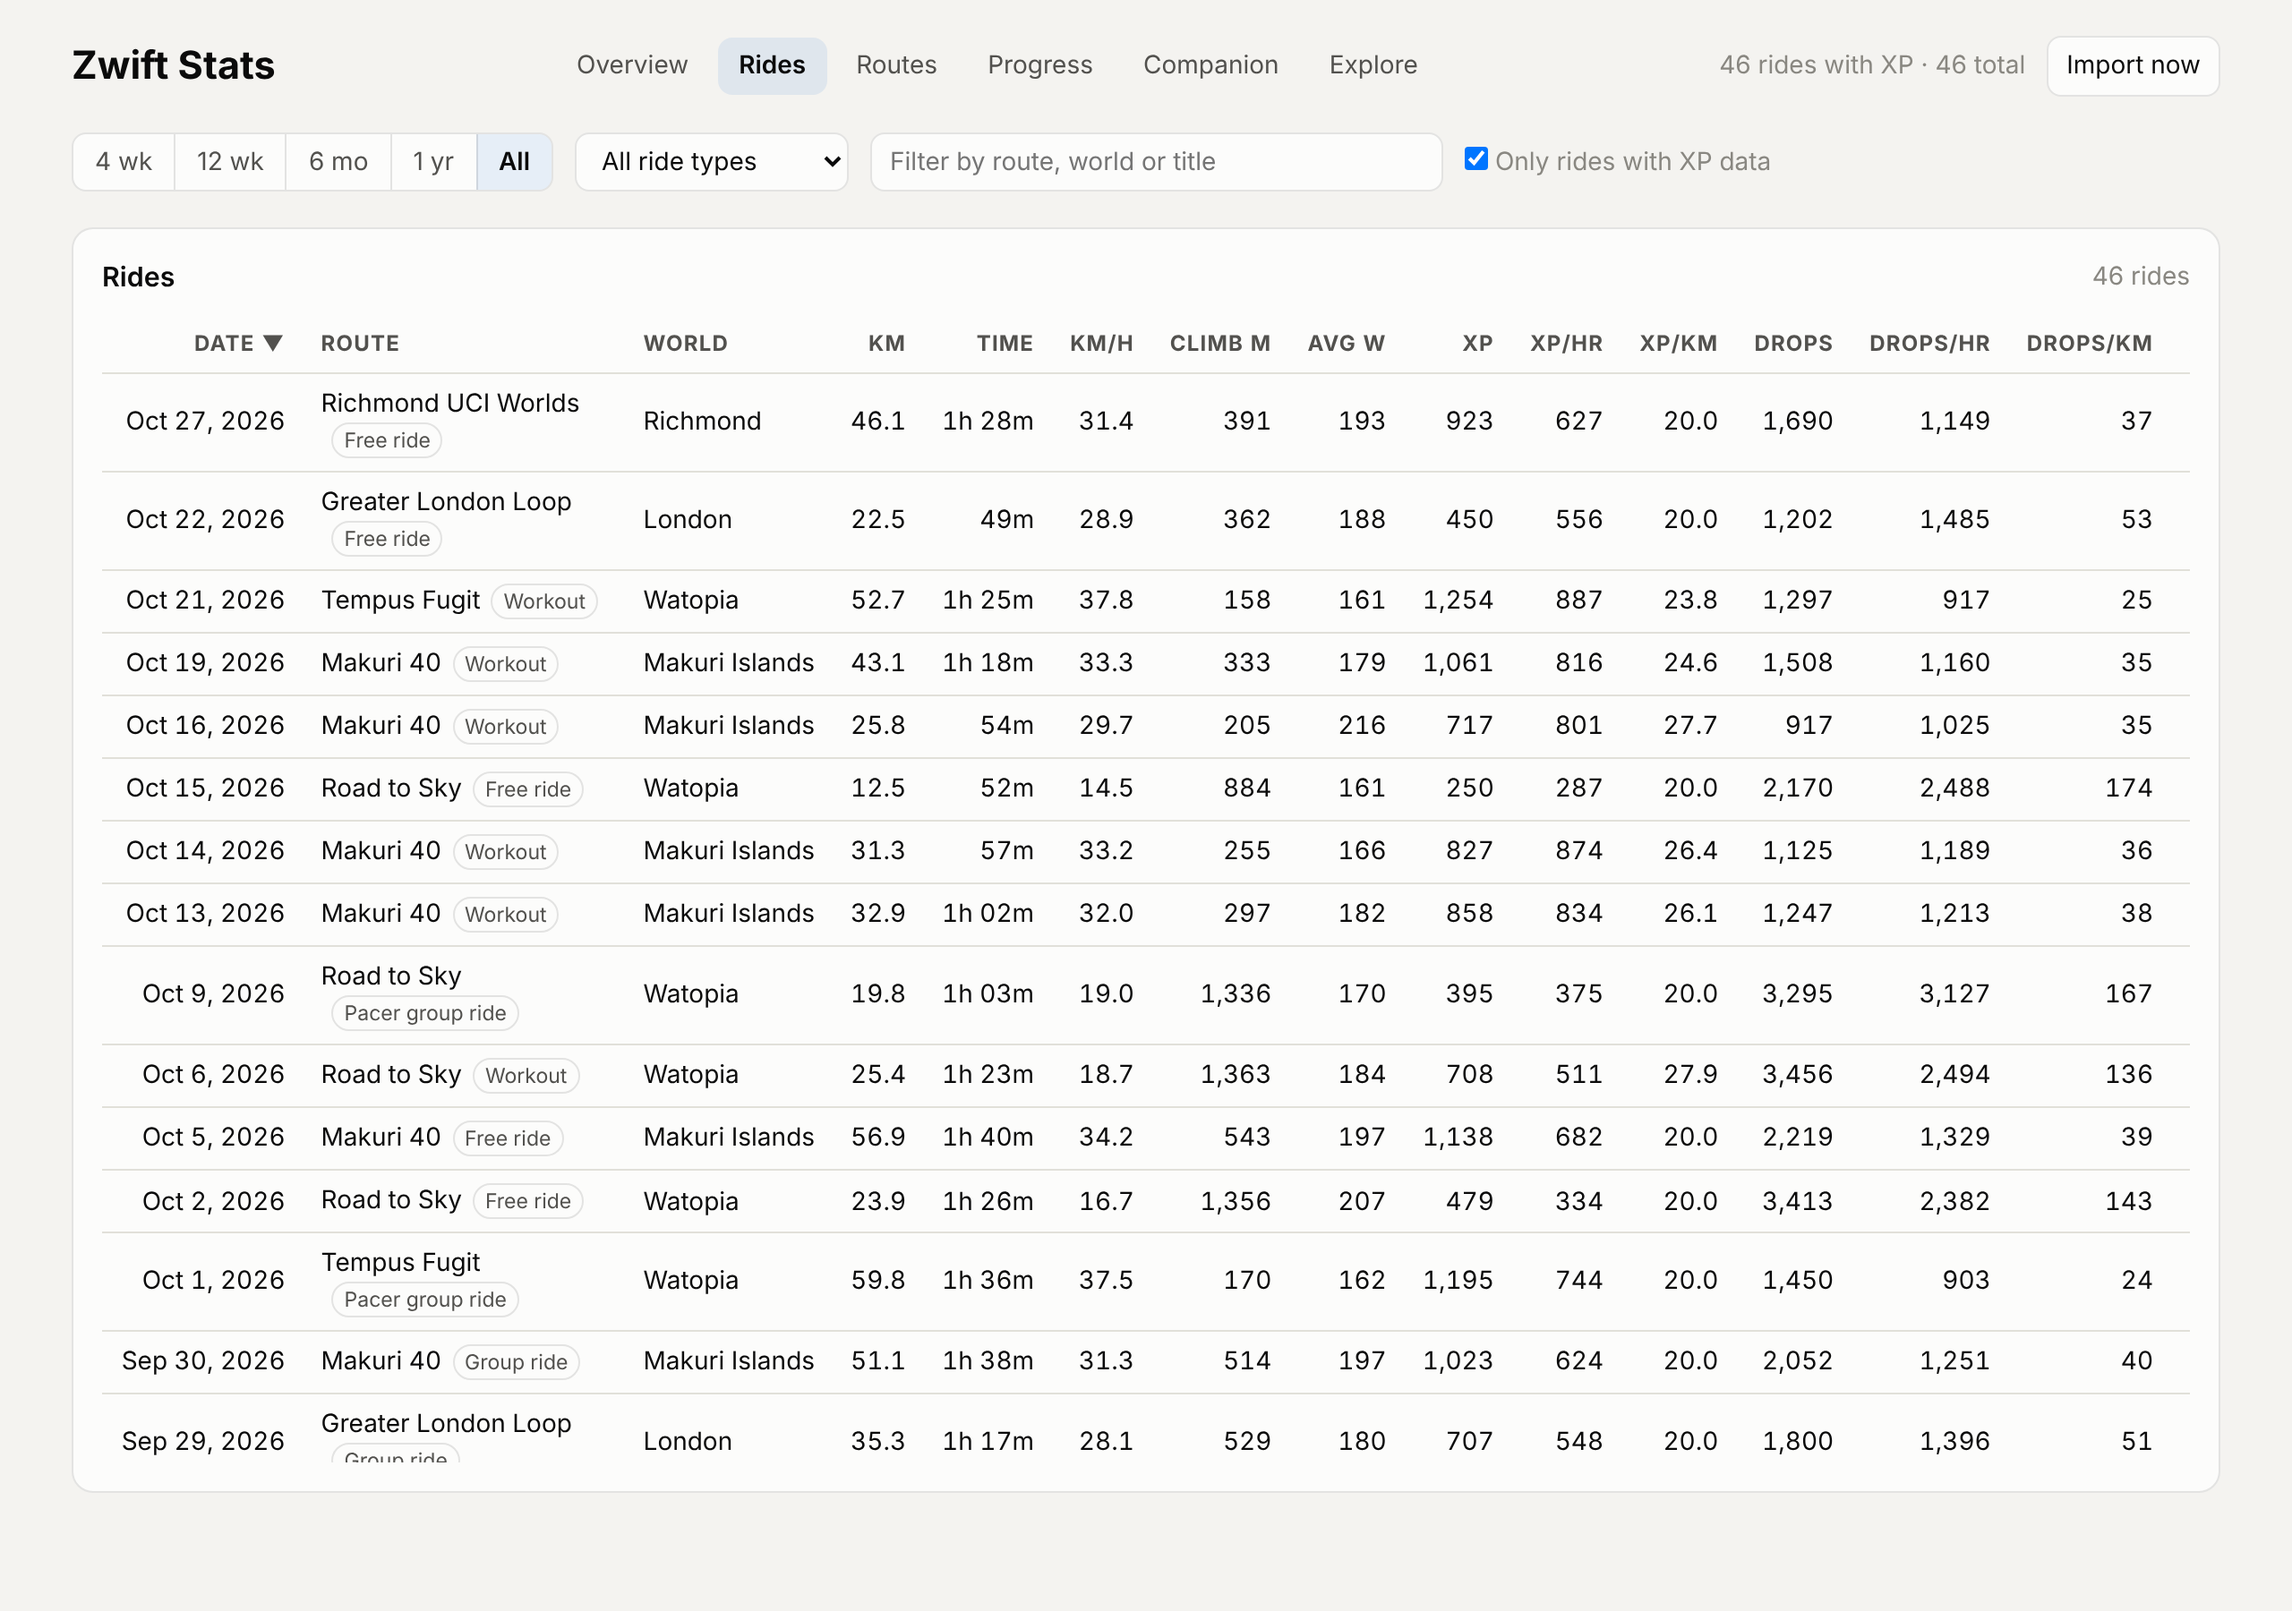
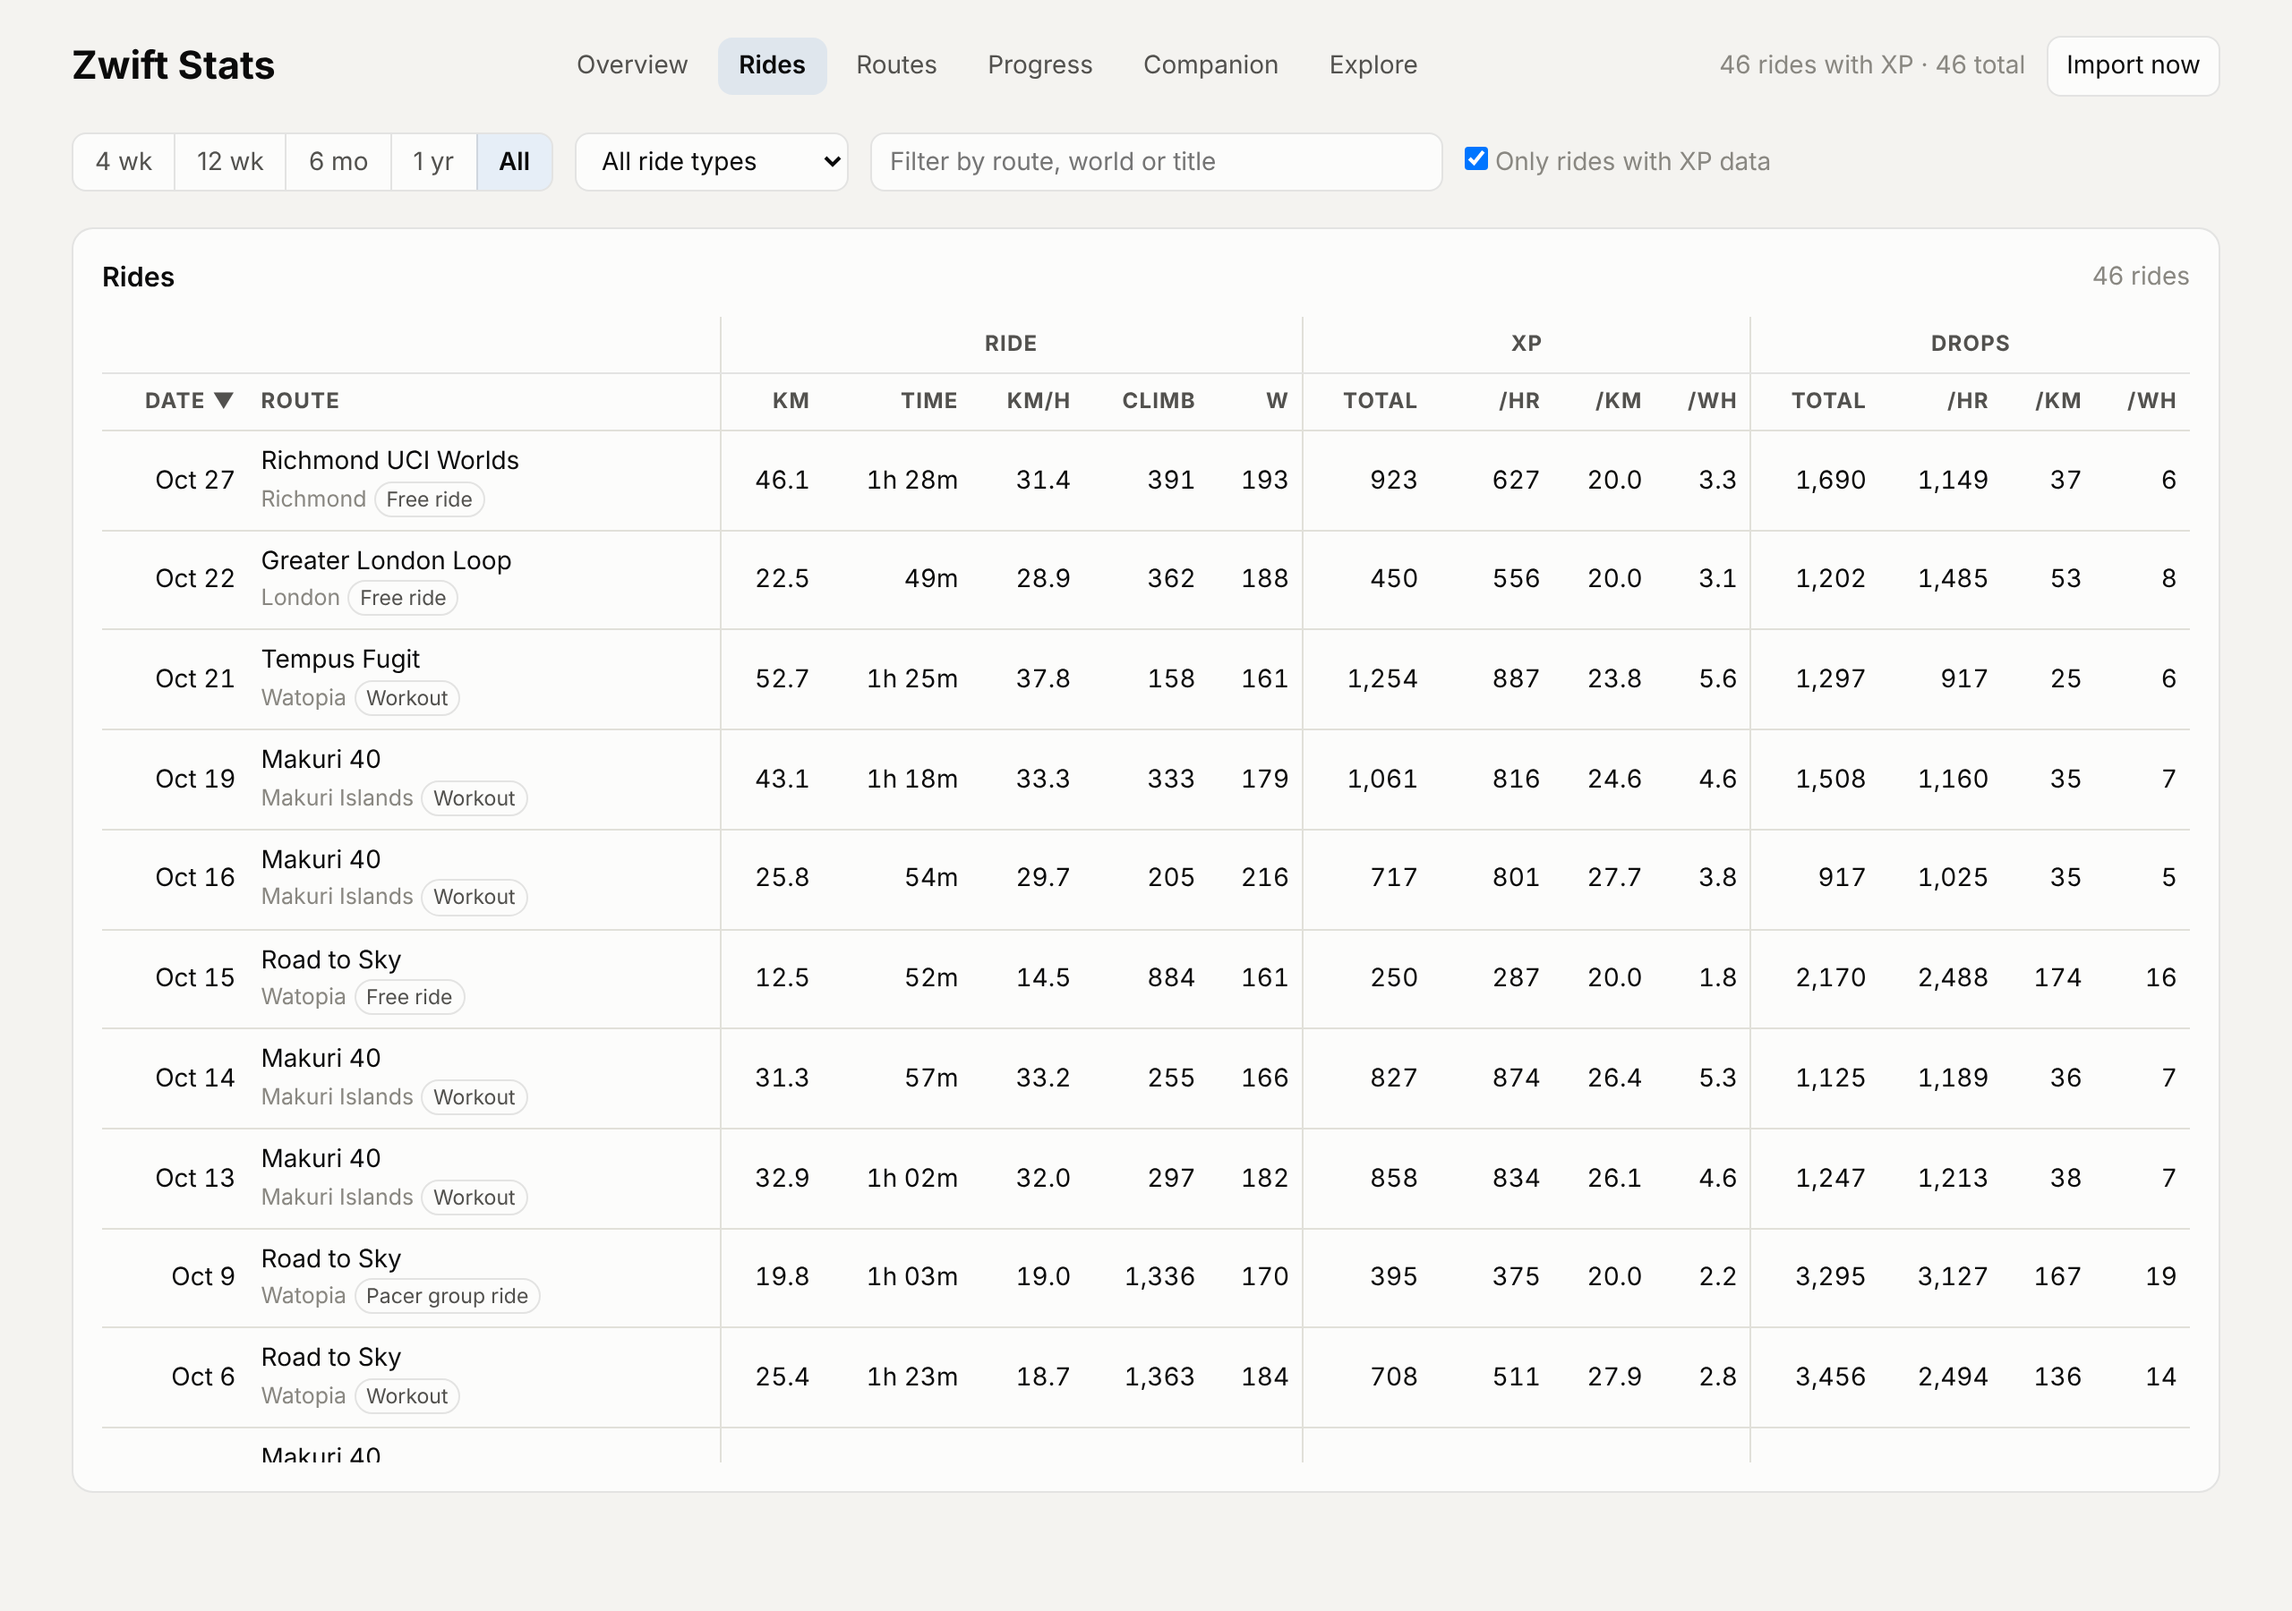
Fit the Rides table without sideways scrolling
World and ride type move under the route name, the ride, XP and Drops
columns sit under group labels with short headers (full names on hover),
dates drop the current year, and cell padding is a little tighter.

Claude-Session: https://claude.ai/code/session_01WrmVQWGZFCiXvu9ioWJcB9

diff --git a/zwift-hub/assets/index.html b/zwift-hub/assets/index.html
@@ -122,6 +122,13 @@
     th.left, td.left { text-align: left; }
     td.name { white-space: normal; min-width: 180px; }
     th { font-size: 0.75rem; text-transform: uppercase; letter-spacing: 0.05em; color: var(--text-secondary); cursor: pointer; user-select: none; position: sticky; top: 0; background: var(--surface-1); }
+    /* Grouped headers: a group label row above short column labels, both sticky */
+    thead tr.groups th { top: 0; height: 28px; cursor: default; text-align: center; border-bottom-color: var(--border); }
+    thead tr.groups + tr th { top: 28px; }
+    th.group-start, td.group-start { border-left: 1px solid var(--grid); }
+    table.compact th, table.compact td { padding: 7px 7px; }
+    .cell-sub { font-size: 0.78rem; color: var(--text-muted); margin-top: 1px; }
+    .cell-sub .tag { margin-left: 4px; }
     th[aria-sort="ascending"]::after { content: " ▲"; }
     th[aria-sort="descending"]::after { content: " ▼"; }
     tbody tr:hover { background: var(--accent-bg); }
@@ -214,7 +221,7 @@
     <div class="card" id="rideDetail" hidden></div>
     <div class="card">
       <div class="card-head"><h2>Rides</h2><span class="muted" id="rideCount"></span></div>
-      <div class="table-wrap"><table id="rideTable"></table></div>
+      <div class="table-wrap"><table id="rideTable" class="compact"></table></div>
     </div>
   </section>
 
@@ -634,13 +641,20 @@ function sortableTable(el, columns, rows, sort, onSort, { onRow, selectedKey } =
     if (y === null || y === undefined) return -1;
     return (x < y ? -1 : x > y ? 1 : 0) * sort.dir;
   });
-  el.innerHTML = '<thead><tr>' + columns.map(c =>
-    `<th data-key="${c.key}" class="${c.left ? 'left' : ''}" ${c.key === sort.key ? `aria-sort="${sort.dir > 0 ? 'ascending' : 'descending'}"` : ''}>${c.label}</th>`
+  // Columns that share a `group` get one label above them, so their own labels can stay short
+  const starts = columns.map((c, i) => !!c.group && c.group !== columns[i - 1]?.group);
+  const spans = [];
+  columns.forEach((c, i) => { if (i && (c.group || '') === (columns[i - 1].group || '')) spans[spans.length - 1].n++; else spans.push({ group: c.group, n: 1, start: starts[i] }); });
+  const groupRow = columns.some(c => c.group)
+    ? '<tr class="groups">' + spans.map(g => `<th colspan="${g.n}" class="${g.start ? 'group-start' : ''}">${g.group || ''}</th>`).join('') + '</tr>' : '';
+  const cls = (c, i) => `${c.left ? 'left' : ''} ${starts[i] ? 'group-start' : ''}`;
+  el.innerHTML = '<thead>' + groupRow + '<tr>' + columns.map((c, i) =>
+    `<th data-key="${c.key}" class="${cls(c, i)}" ${c.title ? `title="${c.title}"` : ''} ${c.key === sort.key ? `aria-sort="${sort.dir > 0 ? 'ascending' : 'descending'}"` : ''}>${c.label}</th>`
   ).join('') + '</tr></thead><tbody>' + (sorted.length ? sorted.map((r, i) =>
     `<tr data-i="${i}" class="${onRow ? 'clickable' : ''} ${selectedKey && selectedKey(r) ? 'selected' : ''}">` +
-    columns.map(c => `<td class="${c.left ? 'left' : ''} ${c.cls || ''}">${c.render ? c.render(r) : c.fmt(r[c.key])}</td>`).join('') + '</tr>'
+    columns.map((c, j) => `<td class="${cls(c, j)} ${c.cls || ''}">${c.render ? c.render(r) : c.fmt(r[c.key])}</td>`).join('') + '</tr>'
   ).join('') : `<tr><td colspan="${columns.length}" class="empty">No rides match.</td></tr>`) + '</tbody>';
-  el.querySelectorAll('th').forEach(th => th.addEventListener('click', () => {
+  el.querySelectorAll('th[data-key]').forEach(th => th.addEventListener('click', () => {
     const key = th.dataset.key;
     onSort(sort.key === key ? { key, dir: -sort.dir } : { key, dir: columns.find(c => c.key === key).left ? 1 : -1 });
   }));
@@ -648,25 +662,29 @@ function sortableTable(el, columns, rows, sort, onSort, { onRow, selectedKey } =
 }
 
 const rideName = r => r.route || r.title || 'Ride';
+const compactYear = new Intl.DateTimeFormat(undefined, { day: 'numeric', month: 'short', year: '2-digit' });
+// The year only when it isn't this one
+const compactDay = t => (t.getFullYear() === new Date().getFullYear() ? shortDay : compactYear).format(t);
 function renderRides(list) {
   document.getElementById('rideCount').textContent = `${list.length} ride${list.length === 1 ? '' : 's'}`;
   sortableTable(document.getElementById('rideTable'), [
-    { key: 't', label: 'Date', render: r => dayFmt.format(r.t) },
-    { key: 'route', label: 'Route', left: true, cls: 'name', render: r => esc(rideName(r)) + (r.kind ? `<span class="tag">${esc(r.kind)}</span>` : '') },
-    { key: 'world', label: 'World', left: true, render: r => esc(r.world || '–') },
-    { key: 'km', label: 'km', fmt: fmt1 },
-    { key: 'duration_s', label: 'Time', render: r => fmtHours(r.duration_s) },
-    { key: 'kmh', label: 'km/h', fmt: fmt1 },
-    { key: 'elevation_m', label: 'Climb m', fmt: fmt0 },
-    { key: 'avg_power', label: 'Avg W', fmt: fmt0 },
-    { key: 'xp', label: 'XP', fmt: fmt0 },
-    { key: 'xp_per_hour', label: 'XP/hr', fmt: fmt0 },
-    { key: 'xp_per_km', label: 'XP/km', fmt: fmt1 },
-    { key: 'drops', label: 'Drops', fmt: fmt0 },
-    { key: 'drops_per_hour', label: 'Drops/hr', fmt: fmt0 },
-    { key: 'drops_per_km', label: 'Drops/km', fmt: fmt0 },
-    { key: 'xp_per_wh', label: 'XP/Wh', fmt: fmt1 },
-    { key: 'drops_per_wh', label: 'Drops/Wh', fmt: fmt0 },
+    { key: 't', label: 'Date', render: r => compactDay(r.t) },
+    // World and ride type sit under the route name rather than in columns of their own
+    { key: 'route', label: 'Route', left: true, cls: 'name', render: r => esc(rideName(r)) +
+      `<div class="cell-sub">${esc(r.world || '')}${r.kind ? `<span class="tag">${esc(r.kind)}</span>` : ''}</div>` },
+    { key: 'km', label: 'km', group: 'Ride', fmt: fmt1 },
+    { key: 'duration_s', label: 'Time', group: 'Ride', render: r => fmtHours(r.duration_s) },
+    { key: 'kmh', label: 'km/h', group: 'Ride', fmt: fmt1 },
+    { key: 'elevation_m', label: 'Climb', title: 'Climbing (m)', group: 'Ride', fmt: fmt0 },
+    { key: 'avg_power', label: 'W', title: 'Average power (W)', group: 'Ride', fmt: fmt0 },
+    { key: 'xp', label: 'Total', group: 'XP', fmt: fmt0 },
+    { key: 'xp_per_hour', label: '/hr', title: 'XP per hour', group: 'XP', fmt: fmt0 },
+    { key: 'xp_per_km', label: '/km', title: 'XP per km', group: 'XP', fmt: fmt1 },
+    { key: 'xp_per_wh', label: '/Wh', title: 'XP per watt-hour', group: 'XP', fmt: fmt1 },
+    { key: 'drops', label: 'Total', group: 'Drops', fmt: fmt0 },
+    { key: 'drops_per_hour', label: '/hr', title: 'Drops per hour', group: 'Drops', fmt: fmt0 },
+    { key: 'drops_per_km', label: '/km', title: 'Drops per km', group: 'Drops', fmt: fmt0 },
+    { key: 'drops_per_wh', label: '/Wh', title: 'Drops per watt-hour', group: 'Drops', fmt: fmt0 },
   ], list, state.rideSort, s => { state.rideSort = s; renderRides(filtered()); }, {
     onRow: r => { state.selected = r.start_utc; renderRideDetail(); renderRides(filtered()); window.scrollTo({ top: 0, behavior: 'smooth' }); },
     selectedKey: r => r.start_utc === state.selected,
